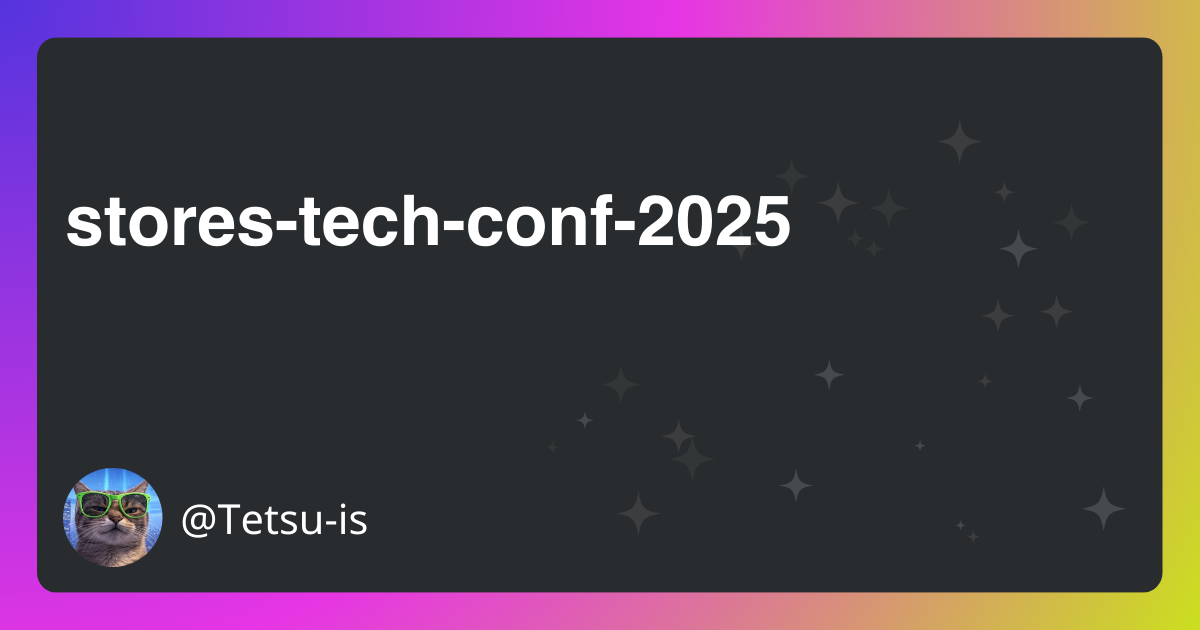
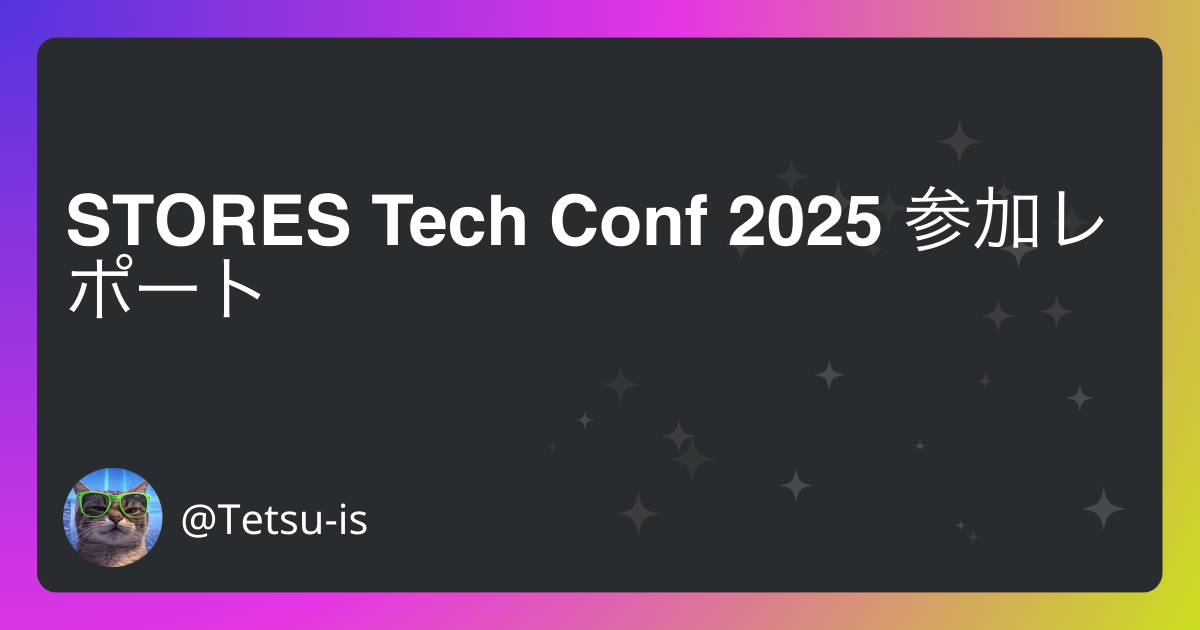
temp

Changed region(s): [[0.0308, 0.3016, 0.925, 0.5127]]

diff --git a/src/content/blog/stores-tech-conf-2025.md b/src/content/blog/stores-tech-conf-2025.md
@@ -1,5 +1,5 @@
 ---
-title: "stores-tech-conf-2025"
+title: "STORES Tech Conf 2025 参加レポート"
 description: "11/26に開催されたSTORES Tech Conf 2025の参加レポートです。"
 pubDate: "Dec 04 2025"
 heroImage: "/og/stores-tech-conf-2025.png"
